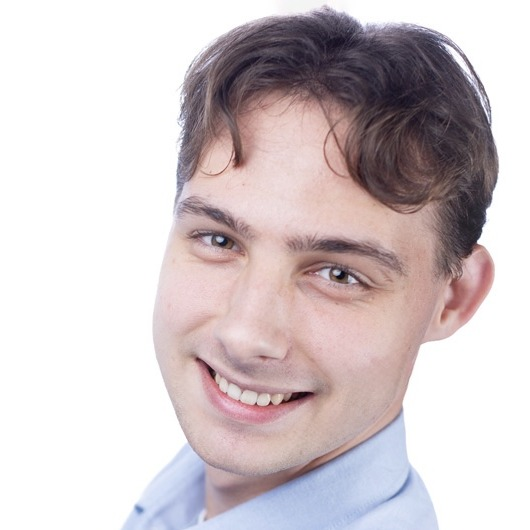
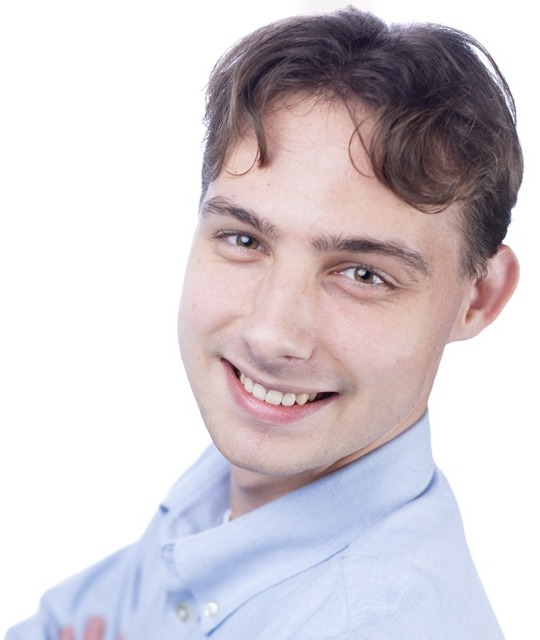
Keep full person in CV photo, trim only white space
Claude-Session: https://claude.ai/code/session_01LrCy6ucQMpZZiBKNYi49R7

diff --git a/src/components/CVPrint.tsx b/src/components/CVPrint.tsx
@@ -186,7 +186,7 @@ export default function CVPrint() {
           </dl>
           {/* src is set by loadCvPhoto right before printing */}
           {/* eslint-disable-next-line @next/next/no-img-element */}
-          <img data-cv-photo alt="" width={640} height={640} />
+          <img data-cv-photo alt="" width={540} height={640} />
         </div>
       </section>
 

diff --git a/src/app/globals.css b/src/app/globals.css
@@ -196,7 +196,7 @@ body {
   }
 
   .cv-personal img {
-    height: 2in;
+    height: 2.37in;
     object-fit: contain;
     position: absolute;
     right: 0;
